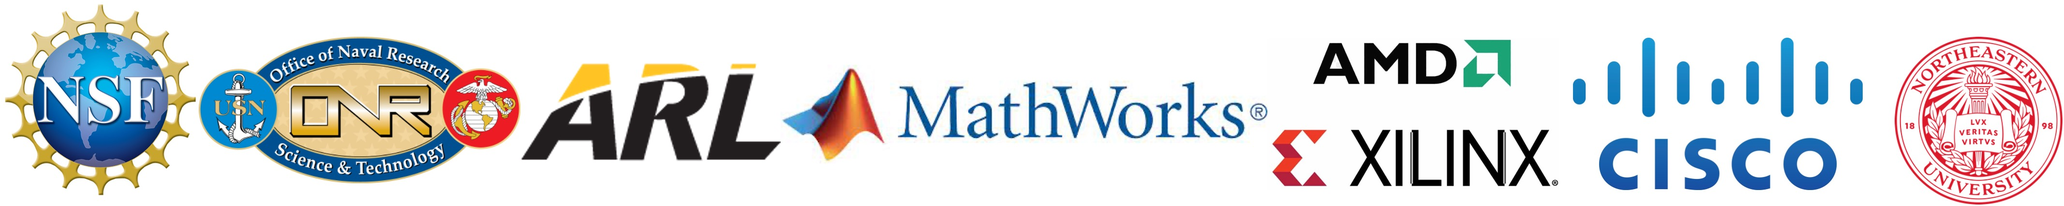
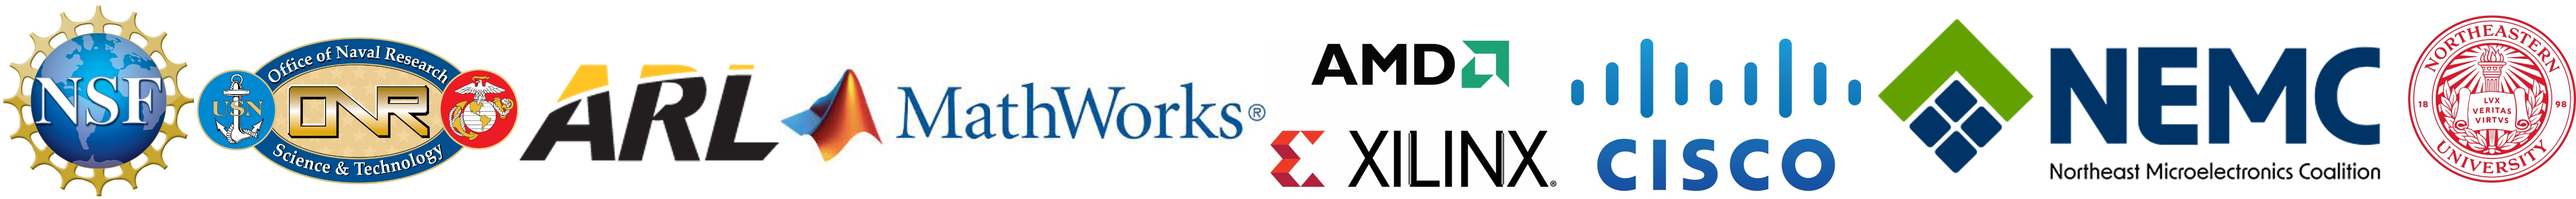
update

diff --git a/news.html b/news.html
@@ -8,22 +8,10 @@
 <title>Xiaolin Xu</title>
 </head>
 <body>
-<table summary="Table for page layout." id="tlayout">
-<tr valign="top">
-<td id="layout-menu">
-<div> <class="menu-category">  <img class="menu" src="./image/neulogo.png" width="166px" align="center">
-</div>
-<div class="menu-item"><a href="index.html" class="current">Home</a></div>
-<div class="menu-item"><a href="group.html">Group</a></div>
-<div class="menu-item"><a href="publication.html">Papers</a></div>
-<div class="menu-item"><a href="research.html">Research</a></div>
-<div class="menu-item"><a href="opensource.html">Software</a></div>
-<div class="menu-item"><a href="teaching.html">Teaching</a></div>
-<div class="menu-item"><a href="service.html">Service</a></div>
-</td>
-<td id="layout-content">
-<h2>News</h2>
+<div id="layout-content">
 <ul>
+<li><p>10/2023 <a href="https://www.linkedin.com/posts/wpi-electrical-and-computer-engineering-4385b2225_nemc-scalecapital-masstech-activity-7389016661150035969-qaAp?utm_source=social_share_send&amp;utm_medium=member_desktop_web&amp;rcm=ACoAAAhQH1ABXMJwIBW343nanDHAaU5nBxJKIWE">New project supported by Northeast Microelectronic Coalition SCALE Capital Grant Program</a>.</p>
+</li>
 <li><p>09/2025 Poomrapee joined our group as a visiting undergrad researcher, welcome!</p>
 </li>
 <li><p>09/2025 Tengkai joined our group as a PhD student, welcome!</p>
@@ -181,8 +169,6 @@
 </p>
 </li>
 </ul>
-</td>
-</tr>
-</table>
+</div>
 </body>
 </html>

diff --git a/index.html b/index.html
@@ -41,6 +41,8 @@ Northeastern University<br />
 <p>I joined Northeastern University in Fall 2020. I earned my doctoral degree in Electrical and Computer Engineering from UMass Amherst and subsequently worked as a Post-Doctoral Fellow at the Florida Institute for Cybersecurity Research. My M.S. and B.E. degrees are from the University of Electronic Science and Technology of China.</p>
 <h2>What's New</h2>
 <ul>
+<li><p>10/2023 <a href="https://www.linkedin.com/posts/wpi-electrical-and-computer-engineering-4385b2225_nemc-scalecapital-masstech-activity-7389016661150035969-qaAp?utm_source=social_share_send&amp;utm_medium=member_desktop_web&amp;rcm=ACoAAAhQH1ABXMJwIBW343nanDHAaU5nBxJKIWE">New project supported by Northeast Microelectronic Coalition SCALE Capital Grant Program</a>.</p>
+</li>
 <li><p>09/2025 Poomrapee joined our group as a visiting undergrad researcher, welcome!</p>
 </li>
 <li><p>09/2025 Tengkai joined our group as a PhD student, welcome!</p>
@@ -82,8 +84,6 @@ Northeastern University<br />
 <li><p>02/2024 One paper accepted for publication in <b>DAC</b>&rsquo;24.</p>
 </li>
 <li><p>02/2024 One paper accepted for publication in <b>tinyML</b>&rsquo;24.</p>
-</li>
-<li><p>01/2024 One paper accepted for publication in <b>ICLR</b>&rsquo;24.</p>
 </li>
 <li><p><a href="./news.html"><b>Archive&hellip;</b></a></p>
 </li>

diff --git a/research.html b/research.html
@@ -41,10 +41,10 @@
 <h2>Research Artifacts</h2>
 <p>See the <a href="./opensource.html"><tt><b>Software</tt></b></a> page or the full list on <a href="https://github.com/XiaolinXu-Research?tab=repositories"><tt><b>Github</tt></b></a>.</p>
 <h2>Research Supports</h2>
-<p>We gratefully acknowledge the generous research supports from NSF, ONR, ARL, MathWorks, AMD-XILINX, CISCO, and Northeastern University. </p>
+<p>We gratefully acknowledge the generous research supports from NSF, ONR, ARL, MathWorks, AMD-XILINX, CISCO, Northeast Microelectronics Coalition, and Northeastern University. </p>
 <p>Note that the findings, positions, or opinions presented in our research do not necessarily reflect the official policies of these organizations.</p>
 <table class="imgtable"><tr><td>
-<img src="./image/Sponsors.jpg" alt="" height="86px" />&nbsp;</td>
+<img src="./image/Sponsors.jpg" alt="" height="66px" />&nbsp;</td>
 <td align="left"></td></tr></table>
 </td>
 </tr>

diff --git a/service.html b/service.html
@@ -23,7 +23,8 @@
 </td>
 <td id="layout-content">
 <h2>Conference Program Committee</h2>
-<p>2026: HPCA <br />
+<p>2026: HPCA, AAAI, CCS, ISPASS, NeurIPS, DAC, AsianHOST, TopPicks in Hardware and
+Embedded Security <br />
 2025: CCS, NeurIPS, DAC, MICRO, ICCAD, ICLR, NEHWS, HOST, ASHES, DATE<br /> 
 2024: CCS, HOST, ISLPED, NEHWS, ICCAD, AsianHOST, Top Picks in Hardware and Embedded Security <br />
 2023: HPCA, HOST, HotStorage, NEHWS, DAC, ICCAD, ISQED, AsianHOST, ASPDAC<br />
